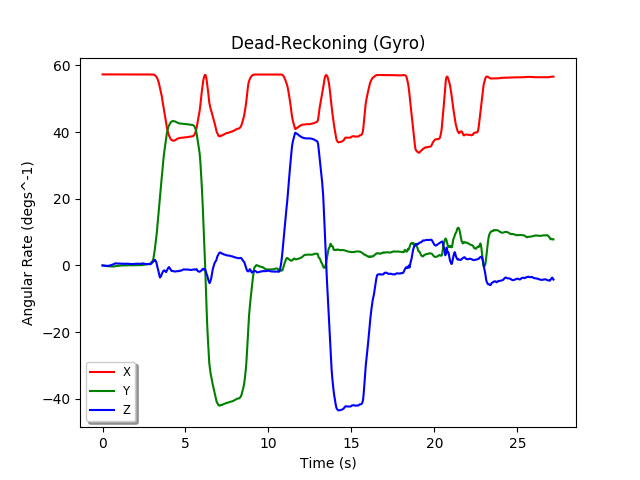
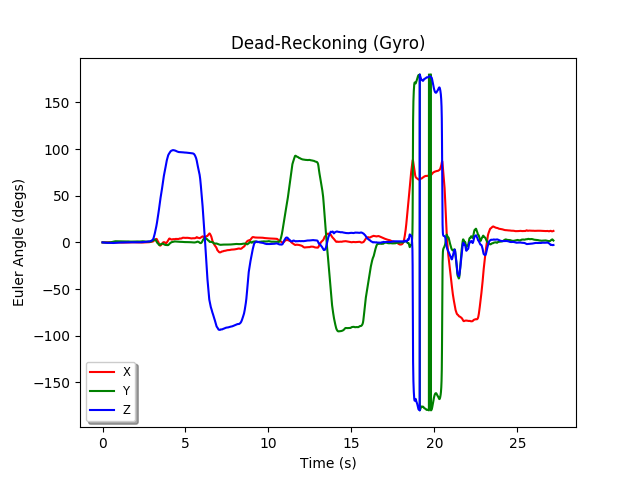
more tweaks, still not sure if it is correct

diff --git a/data_corrector.py b/data_corrector.py
@@ -65,17 +65,12 @@ def reading_to_qtrn(reading, prev_sample_time):
     return euler_to_qtrn(rot_axis, rot_angle)
 
 def qtrn_to_euler(qtrn):
-    """converts a numpy quaternion array [a b c d] to an euler angle array (axis of rotation followed by the angle rotated by) ([x y z], theta)"""
+    """converts a numpy quaternion array [a b c d] to a raw euler angle array [x y z]"""
     (a, b, c, d) = qtrn
-    angle = 2 * np.arccos(a)
-    if angle==0.0:
-        # identity quaternion/rotation (= no rotation)
-        return (np.array([1, 0, 0]), 0)
-    divisor = 1/np.sqrt(1-(a**2))
-    x, y, z = b/divisor, c/divisor, d/divisor
-    axis = np.array([x, y, z]) 
-    norm_axis = axis / np.sqrt(np.sum(axis**2))
-    return (norm_axis, angle)
+    x = np.arcsin(2*b*c + 2*d*a)
+    y = np.arctan2(2*c*a-2*b*d, 1 - 2*(c**2) - 2*(d**2))
+    z = np.arctan2(2*b*a-2*c*d , 1 - 2*(b**2) - 2*(d**2))
+    return np.array([x,y,z])
 
 def qtrn_conj(qtrn):
     """computes the conjugate of a quaternion, passed as a numpy array [a b c d]"""
@@ -101,10 +96,7 @@ def gyro_dead_reckoning(imu_data):
     curr_pos = np.array([1, 0, 0, 0], dtype=np.float32)
     print(">>> Dead Reckoning (Gyro) <<<")
     print("> Start orientation:",curr_pos)
-    start_axis, angle = qtrn_to_euler(curr_pos)
-    print("start axis",start_axis,"angle",angle)
     gyro_range = range(0,4)
-
     # time,x,y,z
     gyro_data = []
 
@@ -115,13 +107,11 @@ def gyro_dead_reckoning(imu_data):
         # update the position using the gyroscope
         delta_qtrn = reading_to_qtrn(point[gyro_range], prev_sample_time)
         prev_sample_time = point[0]
-        curr_pos = qtrn_mult(delta_qtrn, curr_pos)
+        curr_pos = qtrn_mult(curr_pos, delta_qtrn)
 
         gyro_data.append([prev_sample_time] + curr_pos.tolist())
 
     print("> End orientation:",curr_pos)
-    end_axis, angle = qtrn_to_euler(curr_pos)
-    print("end axis",end_axis,"angle",angle)
     print("end check:",np.linalg.norm(curr_pos))
     return gyro_data
 
@@ -136,9 +126,7 @@ def gyro_acc_positioning(imu_data):
     print("> Start orientation:",curr_pos)
     gyro_range = range(0,4)
     acc_range = range(4,7)
-    ref_vector = np.array([0,1,0], dtype=np.float32)
-    end_axis, angle = qtrn_to_euler(curr_pos)
-    print("start axis",end_axis,"angle",angle)
+    #ref_vector = np.array([0,1,0], dtype=np.float32)
 
     # time,x,y,z
     gyro_data = []
@@ -150,7 +138,7 @@ def gyro_acc_positioning(imu_data):
         ### calculate initial position only using the gyro
         delta_qtrn = reading_to_qtrn(point[gyro_range], prev_sample_time)
         prev_sample_time = point[0]
-        curr_pos = qtrn_mult(delta_qtrn, curr_pos)
+        curr_pos = qtrn_mult(curr_pos, delta_qtrn)
 
         ### PITCH/TILT CORRECTION
         ### convert acc data to the global frame
@@ -161,22 +149,18 @@ def gyro_acc_positioning(imu_data):
         ### calculate the tilt error
         # x = index 1, z = index 3 (we disregard the first element, it is not needed for rotating a simple point as we just rotated acc to the global frame)
         tilt_error_axis = np.array([acc_qtrn[3], 0.0, -acc_qtrn[1]])
-        cos_ang = np.dot(ref_vector, acc_qtrn[1:])
-        # account for any rounding errors
+        cos_ang = np.dot(np.array([0,1,0]), acc_qtrn[1:])
         cos_ang = cos_ang if cos_ang > -1 else -1
         cos_ang = cos_ang if cos_ang < 1 else 1
         tilt_error_angle = np.arccos(cos_ang)
         ### Repair tilt using the comp filter
         comp_filter = euler_to_qtrn(tilt_error_axis, -ALPHA_ACC*tilt_error_angle)
         # fix our current estimated position using acceleration data
-        curr_pos = qtrn_mult(comp_filter, curr_pos)
+        curr_pos = qtrn_mult(curr_pos, comp_filter)
 
         gyro_data.append([prev_sample_time] + curr_pos.tolist())
 
-
     print("> End orientation:",curr_pos)
-    end_axis, angle = qtrn_to_euler(curr_pos)
-    print("end axis",end_axis,"angle",angle)
 
     print("end check:",np.linalg.norm(curr_pos))
     return gyro_data
@@ -213,7 +197,7 @@ def gyro_acc_mag_positioning(imu_data):
         ### calculate initial position only using the gyro
         delta_qtrn = reading_to_qtrn(point[gyro_range], prev_sample_time)
         prev_sample_time = point[0]
-        curr_pos = qtrn_mult(delta_qtrn, curr_pos)
+        curr_pos = qtrn_mult(curr_pos, delta_qtrn)
 
         ### PITCH/TILT CORRECTION
         ### convert acc data to the global frame
@@ -328,13 +312,14 @@ def save_gyro_fig(name, title, data):
     z_data = []
     for point in data:
         time_data.append(point[0])
-        x_data.append(point[1]/(np.pi/180))
-        y_data.append(point[2]/(np.pi/180))
-        z_data.append(point[3]/(np.pi/180))
+        x, y, z = qtrn_to_euler(point[1:])
+        x_data.append(x/(np.pi/180))
+        y_data.append(y/(np.pi/180))
+        z_data.append(z/(np.pi/180))
     plt.clf()
     fig, ax = plt.subplots()
     plt.xlabel("Time (s)")
-    plt.ylabel("Angular Rate (degs^-1)")
+    plt.ylabel("Euler Angle (degs)")
     plt.title(title)
     ax.plot(time_data, x_data, 'r-', label="X")
     ax.plot(time_data, y_data, 'g-', label="Y")
@@ -351,7 +336,7 @@ def test():
 
 # MAIN:
 def main():
-    test()
+    #test()
     raw_data = get_raw_imu_data()
     save_unmodified_figs(raw_data)
     imu_data = sanitize_imu_data(raw_data)
